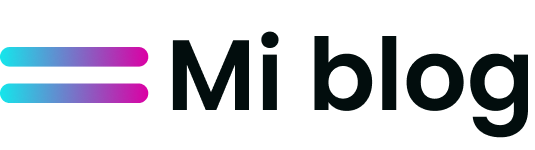
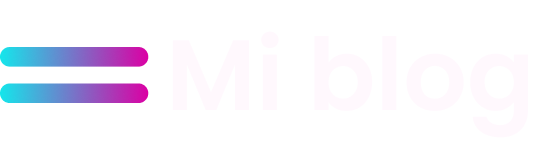
've finished the header section

Changed region(s): [[0.5682, 0.24, 0.9869, 0.9333], [0.2991, 0.2133, 0.5383, 0.7467]]

diff --git a/index.html b/index.html
@@ -9,17 +9,43 @@
 </head>
 <body>
     <header>
-        <section>
-            <div>
-                
+        <section class="social-icon-container">
+            <div class="icons">
+                <a href="https://www.instagram.com/mr.jark/">
+                    <span>
+                        <img src="./assets/social-icons/Intagram-MrJark.svg" alt="instagram mrjark">
+                    </span>
+                </a>
+                <a href="https://twitter.com/mrjark7">
+                    <span>
+                        <img src="./assets/social-icons/Twitter-MrJark.svg" alt="twitter mrjark">
+                    </span>
+                </a>
+                <a href="https://www.linkedin.com/in/mrjark/">
+                    <span>
+                        <img src="./assets/social-icons/LinkedIn-MrJark.svg" alt="linkedin mrjark">
+                    </span>
+                </a>
+                <a href="https://github.com/MrJark">
+                    <span>
+                        <img src="./assets/social-icons/GitHub-MrJark.svg" alt="github mrjark">
+                    </span>
+                </a>
+                <a href="https://www.youtube.com/channel/UC-2TAn7wam-8gCky9v9hkvA">
+                    <span>
+                        <img src="./assets/social-icons/youtube.svg" alt="youtube mrjark">
+                    </span>
+                </a>
             </div>
         </section>
         <nav>
-            <section>
-                <a href="#">Logo</a>
+            <section class="nav-logo-container">
+                <a href="index.html">
+                    <img src="./assets/my-blog.png" alt="logo del blog y mrjark">
+                </a>
             </section>
-            <section>
-                <a href="profile.html">Sobre mí</a>
+            <section class="profile-link">
+                <a href="profile.html">About MrJark</a>
             </section>
         </nav>
     </header>

diff --git a/styles/main.css b/styles/main.css
@@ -1,0 +1,69 @@
+* {
+    padding: 0;
+    margin: 0;
+}
+body { 
+    /* Con estas especificaciones conseguimos que no podamos hacer scroll, conseguimos una página estáticas */
+    position: fixed;
+    top: 0;
+    bottom: 0;
+    left: 0;
+    right: 0;
+    background-color: #262C32;
+    font-family: 'Alegreya Sans'
+}
+a {
+    text-decoration: none;
+    display: inline;
+    color: #FFF8FD;
+}
+
+/* HEADER */
+
+header {
+    width: 100%;
+    height: 140px;
+    display: grid;
+    grid-template-rows: repeat(2, 1fr);
+}
+/* Header/social-icons */
+header .social-icon-container {
+    width: 100%;
+    height: 50px;
+    display: flex;
+    align-items: center;
+    justify-content: flex-end;
+    background-color: #F8FFFF;
+}
+header .social-icon-container .icons:last-child {
+    margin-right: 60px;
+}
+header .social-icon-container .icons a {
+    color: #FFF8FD;
+    margin-right: 30px;
+}
+
+/* Header/nav */
+
+nav {
+    display: grid;
+    grid-template-columns: repeat(2, 1fr);
+    height: 80px;
+}
+nav .nav-logo-container {
+    margin-left: 50px;
+}
+nav .nav-logo-container img {
+    width: 200px;
+}
+nav .profile-link {
+    display: flex;
+    align-items: center;
+    justify-content: flex-end;
+    margin-right: 80px;
+    font-family: "Poppins";
+    font-size: 20px;
+}
+nav .profile-link a:hover {
+    text-decoration: underline;
+}
